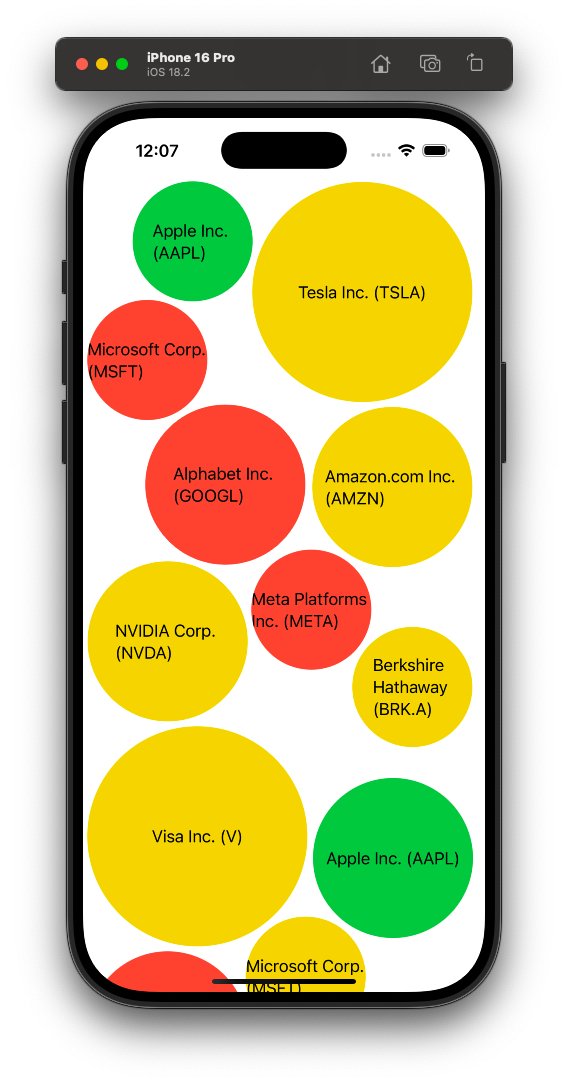
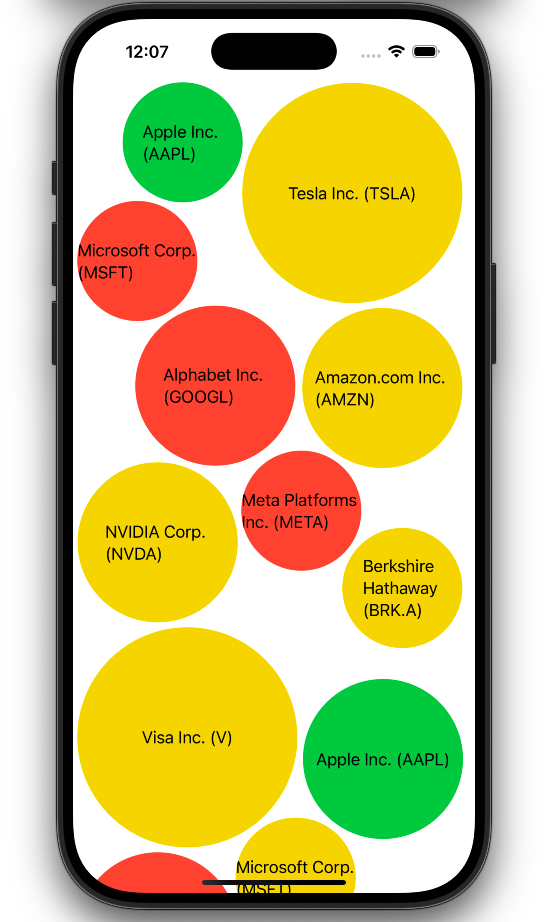
Update README assets and fix calculating logic

diff --git a/Sources/BubblesLayout/BubblesLayout.swift b/Sources/BubblesLayout/BubblesLayout.swift
@@ -9,13 +9,13 @@ public struct BubblesLayout<BubbleViews: View>: View {
     @State private var bubblesFramesNotCalculatedSizes: [CGSize]?
 
     public init(
-        minSpacing: CGFloat,
+        minSpacing: CGFloat = 0,
         @ViewBuilder bubbles: @escaping () -> BubbleViews
     ) {
         self.minSpacing = minSpacing
         self.bubbles = bubbles
     }
-    
+
     public var body: some View {
         Group {
             if let bubblesFramesNotCalculatedSizes {

diff --git a/Sources/BubblesLayout/CalculatingLogic/Frame/BubblesFrameCalculatingScene.swift b/Sources/BubblesLayout/CalculatingLogic/Frame/BubblesFrameCalculatingScene.swift
@@ -61,7 +61,7 @@ private extension BubblesFrameCalculatingScene {
             circle.physicsBody = SKPhysicsBody(circleOfRadius: radius)
             circle.physicsBody?.isDynamic = true
             circle.physicsBody?.allowsRotation = false
-            circle.physicsBody?.restitution = 1
+            circle.physicsBody?.restitution = 0.5
             addChild(circle)
         }
     }
